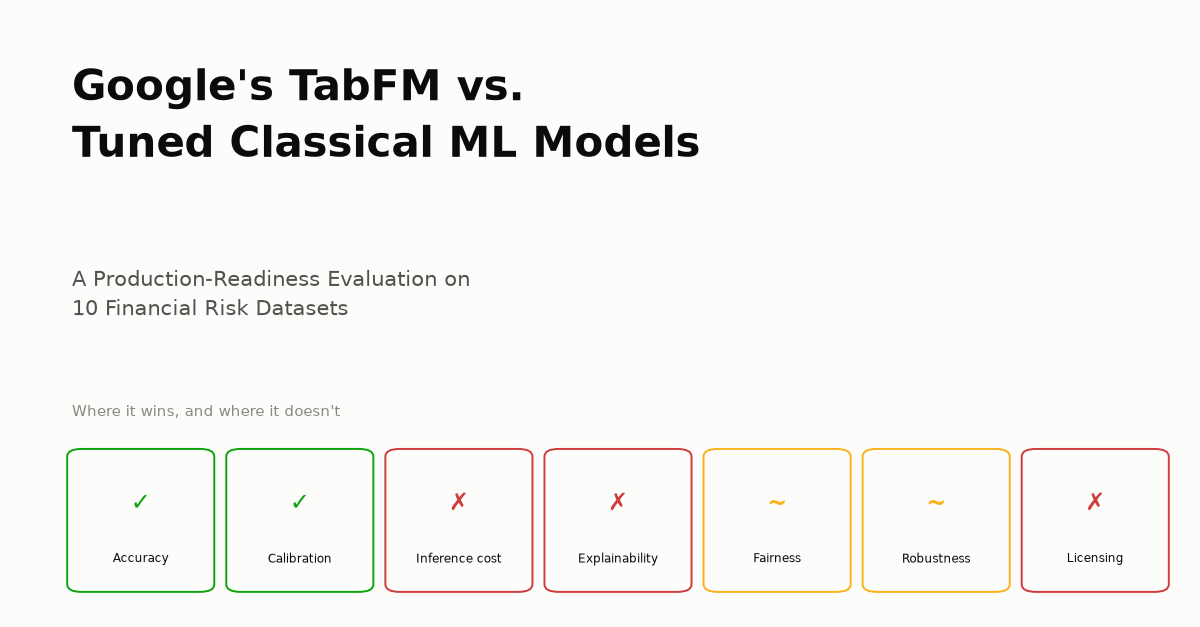
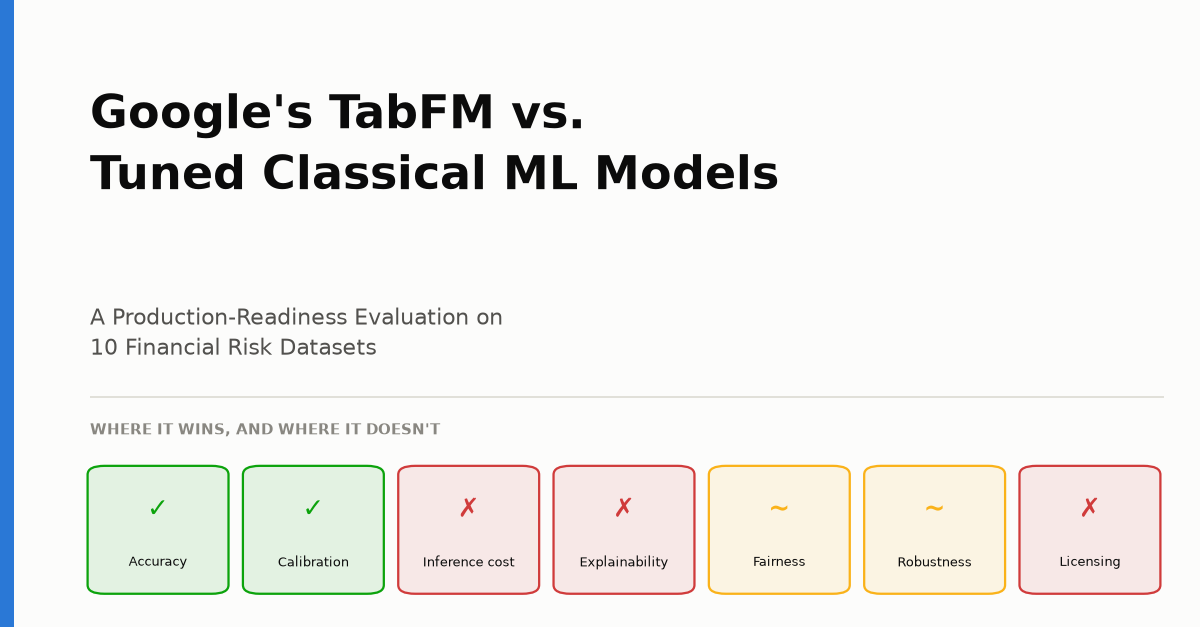
Redesign LinkedIn cover image with filled scorecard chips and accent bar
Replaces plain outlined chips with tinted fills, adds a divider rule and
a left accent bar tying it to the article's figure palette.

diff --git a/scripts/generate_cover_image.py b/scripts/generate_cover_image.py
@@ -13,7 +13,7 @@ Usage:
 """
 
 import matplotlib.pyplot as plt
-from matplotlib.patches import FancyBboxPatch
+from matplotlib.patches import FancyBboxPatch, Rectangle
 from pathlib import Path
 
 ROOT = Path(__file__).resolve().parents[1]
@@ -24,6 +24,7 @@ SURFACE = "#fcfcfb"
 INK = "#0b0b0b"
 SECONDARY = "#52514e"
 MUTED = "#898781"
+ACCENT = "#2a78d6"  # TabFM's series color elsewhere in the article's figures
 
 STATUS = {
     "good": "#0ca30c",
@@ -58,37 +59,55 @@ def main():
     ax.axis("off")
     ax.set_facecolor(SURFACE)
 
-    # Title block
-    ax.text(0.06, 0.90, "Google's TabFM vs.\nTuned Classical ML Models",
-             fontsize=30, fontweight="bold", color=INK, va="top", ha="left",
-             linespacing=1.25)
-    ax.text(0.06, 0.58, "A Production-Readiness Evaluation on\n10 Financial Risk Datasets",
-             fontsize=15, color=SECONDARY, va="top", ha="left", linespacing=1.4)
+    # Left accent bar, ties the banner to the article's own figure palette
+    ax.add_patch(Rectangle((0, 0), 0.012, 1, transform=ax.transAxes,
+                            facecolor=ACCENT, linewidth=0, zorder=4))
 
-    # Scorecard row
+    left_margin = 0.075
+
+    # Title block
+    ax.text(left_margin, 0.86, "Google's TabFM vs.\nTuned Classical ML Models",
+             fontsize=33, fontweight="bold", color=INK, va="top", ha="left",
+             linespacing=1.22)
+    ax.text(left_margin, 0.52, "A Production-Readiness Evaluation on\n10 Financial Risk Datasets",
+             fontsize=15.5, color=SECONDARY, va="top", ha="left", linespacing=1.4)
+
+    # Divider rule between title block and scorecard
+    ax.add_patch(Rectangle((left_margin, 0.365), 0.97 - left_margin, 0.0035,
+                            transform=ax.transAxes, facecolor="#e1e0d9",
+                            linewidth=0, zorder=2))
+
+    ax.text(left_margin, 0.325, "WHERE IT WINS, AND WHERE IT DOESN'T",
+             fontsize=10.5, color=MUTED, va="top", ha="left", fontweight="bold")
+
+    # Scorecard row -- filled tinted chips, not just outlines
     n = len(ROWS)
-    left, right = 0.06, 0.97
-    gap = 0.018
-    chip_w = (right - left - gap * (n - 1)) / n
-    y0 = 0.06
-    chip_h = 0.22
+    right = 0.965
+    gap = 0.016
+    chip_w = (right - left_margin - gap * (n - 1)) / n
+    y0 = 0.055
+    chip_h = 0.20
 
     for i, (label, status, icon) in enumerate(ROWS):
-        x0 = left + i * (chip_w + gap)
+        x0 = left_margin + i * (chip_w + gap)
         color = STATUS[status]
         box = FancyBboxPatch((x0, y0), chip_w, chip_h,
-                              boxstyle="round,pad=0.004,rounding_size=0.012",
-                              linewidth=1.4, edgecolor=color, facecolor=SURFACE,
-                              transform=ax.transAxes, zorder=2)
+                              boxstyle="round,pad=0.002,rounding_size=0.014",
+                              linewidth=1.6, edgecolor=color, facecolor=color,
+                              alpha=0.10, transform=ax.transAxes, zorder=2)
         ax.add_patch(box)
+        # re-stroke the border at full opacity (the fill alpha above would
+        # otherwise fade the edge too)
+        border = FancyBboxPatch((x0, y0), chip_w, chip_h,
+                                 boxstyle="round,pad=0.002,rounding_size=0.014",
+                                 linewidth=1.6, edgecolor=color, facecolor="none",
+                                 transform=ax.transAxes, zorder=3)
+        ax.add_patch(border)
         cx = x0 + chip_w / 2
-        ax.text(cx, y0 + chip_h * 0.62, icon, fontsize=17, color=color,
-                 ha="center", va="center", fontweight="bold", zorder=3)
-        ax.text(cx, y0 + chip_h * 0.22, label, fontsize=8.3, color=INK,
-                 ha="center", va="center", zorder=3)
-
-    ax.text(0.06, 0.355, "Where it wins, and where it doesn't", fontsize=11,
-             color=MUTED, va="top", ha="left")
+        ax.text(cx, y0 + chip_h * 0.66, icon, fontsize=19, color=color,
+                 ha="center", va="center", fontweight="bold", zorder=4)
+        ax.text(cx, y0 + chip_h * 0.24, label, fontsize=9.2, color=INK,
+                 ha="center", va="center", zorder=4)
 
     out = FIGURES / "cover_linkedin.png"
     fig.savefig(out, dpi=100)